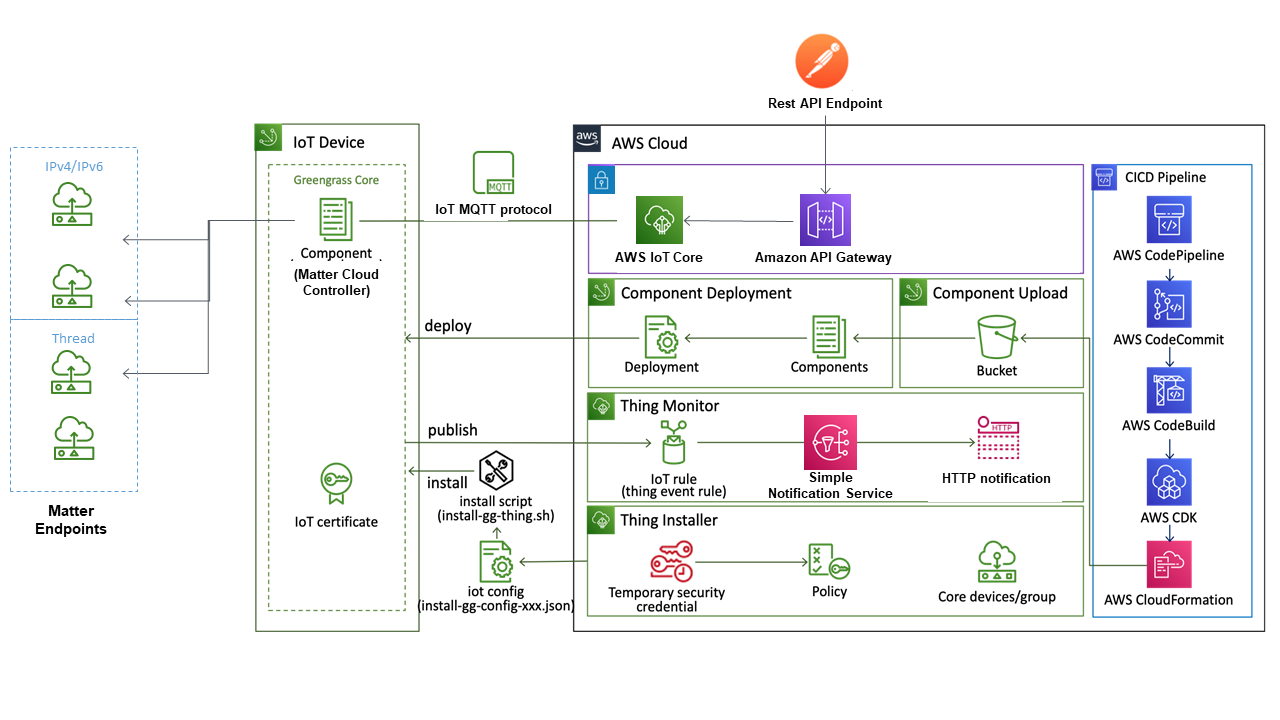
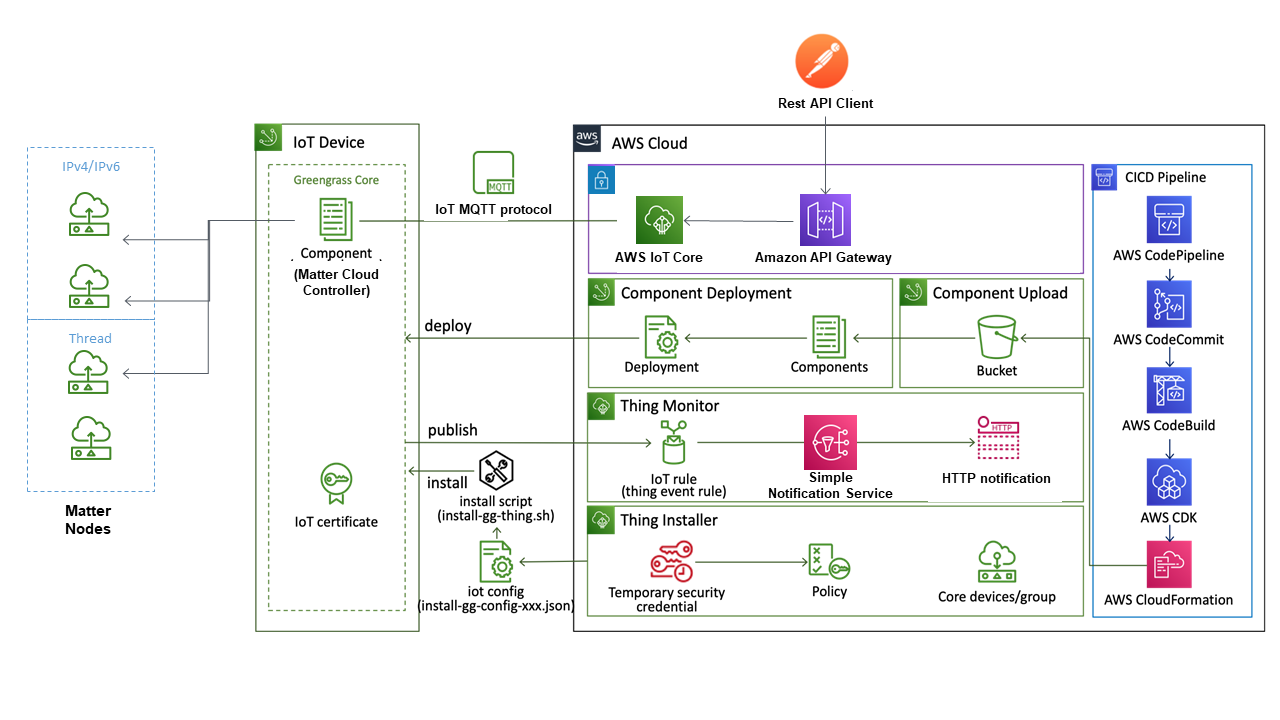
clarified documentation between matter nodes and endpoints

diff --git a/README.md b/README.md
@@ -1,6 +1,6 @@
 # Matter Cloud Controller
 
-The Matter Cloud Controller provides a REST based API that allows you to commission Matter devices into a matter network and to communicate with these endpoints using the Matter Interaction model and associated messages via secure cloud communication. Note, this is currently a project in development and should not be considered suitable for immediate production deployment.
+The Matter Cloud Controller provides a REST based API that allows you to commission Matter devices into a matter network and to communicate with these nodes using the Matter Interaction model and associated messages via secure cloud communication. Note, this is currently a project in development and should not be considered suitable for immediate production deployment.
 
 ## Solution Architecture
 
@@ -9,17 +9,17 @@ The solution consists of 2 key subsystems. The **AWS Cloud** subsystem provides 
 ![solution-arcitecture](docs/asset/solution-architecture.png)
 
 The solution consists of the following:
-- Matter endpoints locally communicate with the Matter Cloud Controller on the **IoT Device** over a local IPv4/IPv6 or Thread based networks.
+- Matter nodes locally communicate with the Matter Cloud Controller on the **IoT Device** over a local IPv4/IPv6 or Thread based networks.
 - The Matter Cloud controller is a python based program hosted on a AWS greengrass v2 IoT thing that leverages the [Project CHIP](https://github.com/project-chip/connectedhomeip) chip python libraries to act as a controller.
 - The Matter Cloud Controller component will listen for MQTT messages that are sent via the AWS API gateway and transferred over the AWS IOT Core secure environment. These MQTT messages originate from the REST API clients and contain CHIP type interaction messages such as "discover" and "commission" to discover and commission Matter devices onto the Matter Cloud Controllers fabric. 
-- The Matter Cloud Controller will maintain the state of each Matter endpoint in a "digital twin" as an AWS named shadow in the AWS IOT code environment.
-- When a Matter endpoint is commissioned the Matter Cloud Controller subscribes to changes on this commissioned endpoint. This reduces the need to poll  for state changes which would be problematic for power constrained devices that could be "sleepy mode".
-- When changes are made on a matter endpoint (e.g. change of ACL), the Matter Cloud Controller will receive a subscription event. This will result in the controller reading the state of the matter endpoint and updating the state of its "digital twin" (i.e. AWS named shadow) 
-- The REST API client can retrieve the state of each commissioned matter endpoint by calling a REST API to get the state in a JSON document.
-- To prevent the need for the REST API client to poll for changes, an AWS IoT rule listens for changes to the named shadow state and will then invoke the Subscriptipn Notificatoon Service to call a Webhook API in the REST client. This webhook will be called every time the state of a named shadow is changed.
+- The Matter Cloud Controller will maintain the state of each Matter node in a "digital twin" as an AWS named shadow in the AWS IOT code environment.
+- When a Matter node is commissioned the Matter Cloud Controller subscribes to changes on this commissioned node. This reduces the need to poll for state changes which would be problematic for power constrained devices that could be "sleepy mode".
+- When changes are made on a matter endpoint (e.g. change of ACL), the Matter Cloud Controller will receive a subscription event. This will result in the controller reading the state of the matter node endpoint and updating the state of its "digital twin" (i.e. AWS named shadow) 
+- The REST API client can retrieve the state of each commissioned matter node by calling a REST API to get the state in a JSON document.
+- To prevent the need for the REST API client to poll for changes, an AWS IoT rule listens for changes to the named shadow state and will then invoke the Subscriptipn Notification Service (SNS) to call a Webhook API in the REST client. This webhook will be called every time the state of a named shadow is changed.
 - The AWS API gateway provides secure REST API endpoints. Securing the AWS API Gateway is done using AWS IAM roles, API keys and signed/authenticated requests/responses.
 
-One advantage of using AWS named shadows as "Digital Twins" for real matter endpoints is that this allows the solution to be robust and reliable for intermittent network conditions between the cloud and the Matter environment. For example, if matter endpoints are in a environment that is susceptible to network dropouts or network connectivity loss (e.g. a transport vehicle or remote locations) this solution will provide the last known state to the REST API clients and when network connectivity is restored the recent state changes will be propagated to the AWS IoT Core. 
+One advantage of using AWS named shadows as "Digital Twins" for real matter nodes is that this allows the solution to be robust and reliable for intermittent network conditions between the cloud and the Matter network. For example, if matter nodes are in a environment that is susceptible to network dropouts or network connectivity loss (e.g. a transport vehicle or remote locations) this solution will provide the last known state to the REST API clients and when network connectivity is restored the recent state changes will be propagated to the AWS IoT Core. 
 
 Another significant advantage of using AWS IoT Core and a AWS greengrass v2 based solution is that software and device firmware updates can be easily made to the Matter Cloud Controller and, in turn, to the Matter devices. This could provide a solution to secure cloud originated Device Firmware Updates (DFU) using the Matter OTA standard.
 
@@ -55,8 +55,8 @@ technology provided by Amazon Web Services. This should not be seen as an
 exclusive choice of cloud environment. In future releases, other cloud
 environments will be supported where possible. The current functionality provides
 basic matter interactions such as discovery, commissioning and interactions. 
-The current matter cloud controller focuses on endpoint 0 of the device to monitor
-and manage adminstration cluster type information for devices. The project will be 
+The current matter cloud controller focuses on endpoint 0 of the device nodes to monitor
+and manage adminstration type information for devices. The project will be 
 extended to support clusers outside of endpoint 0 in future releases. A decision 
 was made early in the development of this project to leverage the Project CHIP python 
 libraries and this should mean that additional functionality should be easily ported 
